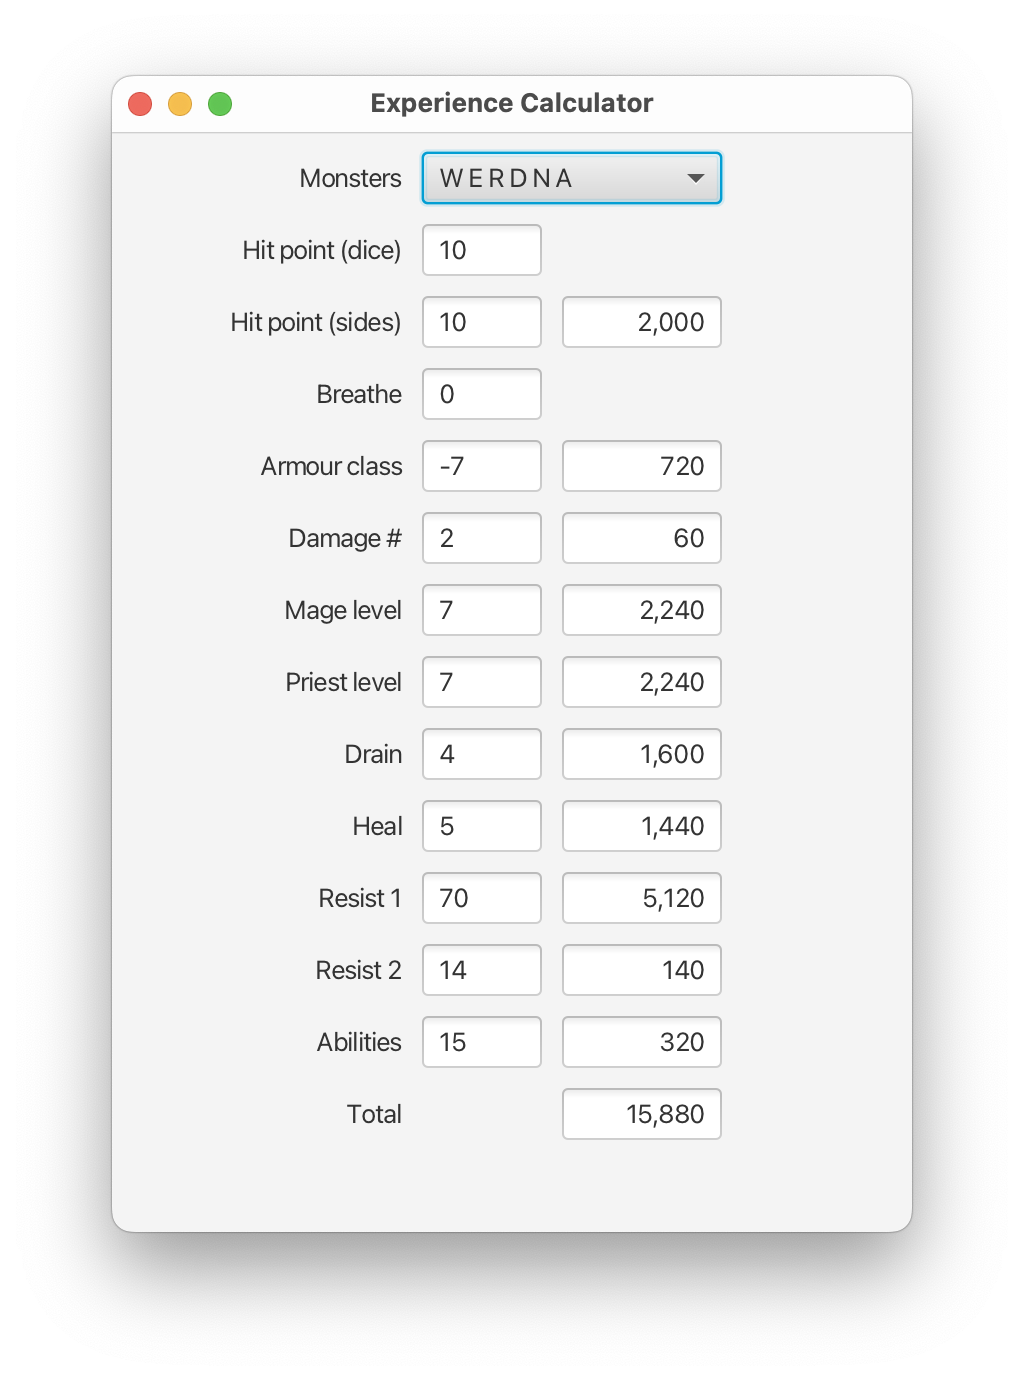
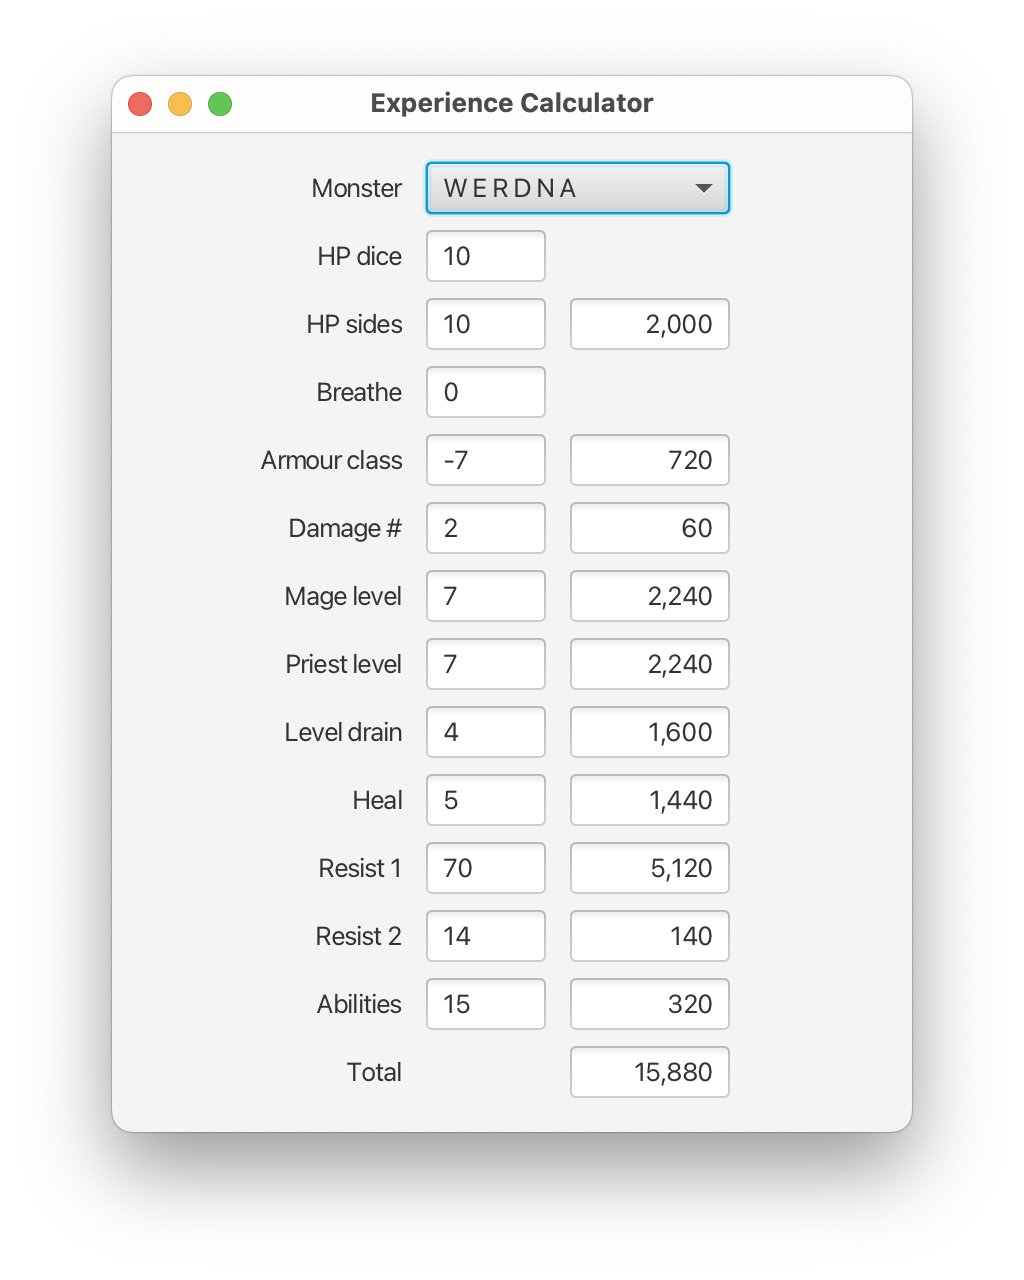
spacing

diff --git a/src/com/bytezone/mazewalker/gui/ExperienceCalculator.java b/src/com/bytezone/mazewalker/gui/ExperienceCalculator.java
@@ -35,9 +35,8 @@ public class ExperienceCalculator extends Pane
   private static final int ABILITY = 11;
   private static final int TOTAL = 12;
 
-  String[] labelText = { "Hit point (dice)", "Hit point (sides)", "Breathe", "Armour class",
-      "Damage #", "Mage level", "Priest level", "Drain", "Heal", "Resist 1", "Resist 2",
-      "Abilities", "Total" };
+  String[] labelText = { "HP dice", "HP sides", "Breathe", "Armour class", "Damage #", "Mage level",
+      "Priest level", "Level drain", "Heal", "Resist 1", "Resist 2", "Abilities", "Total" };
 
   Label[] labels = new Label[labelText.length];
   TextField[] textIn = new TextField[labelText.length];
@@ -59,9 +58,9 @@ public class ExperienceCalculator extends Pane
     gridPane.getColumnConstraints ().add (new ColumnConstraints (60));
     gridPane.getColumnConstraints ().add (new ColumnConstraints (80));
 
-    gridPane.setHgap (10);
-    gridPane.setVgap (10);
-    gridPane.setPadding (new Insets (10, 10, 10, 10));
+    gridPane.setHgap (12);
+    gridPane.setVgap (8);
+    gridPane.setPadding (new Insets (15, 10, 12, 10));      // trbl
 
     getChildren ().add (new BorderPane (gridPane));
   }
@@ -168,7 +167,7 @@ public class ExperienceCalculator extends Pane
   private void build ()
   // ---------------------------------------------------------------------------------//
   {
-    Label monsterLabel = new Label ("Monsters");
+    Label monsterLabel = new Label ("Monster");
     GridPane.setConstraints (monsterLabel, 0, 0);
     GridPane.setConstraints (monsters, 1, 0);
     gridPane.getChildren ().addAll (monsterLabel, monsters);

diff --git a/src/com/bytezone/mazewalker/gui/MazeWalker.java b/src/com/bytezone/mazewalker/gui/MazeWalker.java
@@ -182,7 +182,7 @@ public class MazeWalker extends AppBase implements MovementListener
       calculatorStage.setTitle ("Experience Calculator");
       ExperienceCalculator experienceCalculator = new ExperienceCalculator (wizardry);
 
-      Scene scene = new Scene (experienceCalculator, 400, 550);
+      Scene scene = new Scene (experienceCalculator, 400, 500);       // wh
       calculatorStage.setScene (scene);
       calculatorStage.sizeToScene ();
     }
